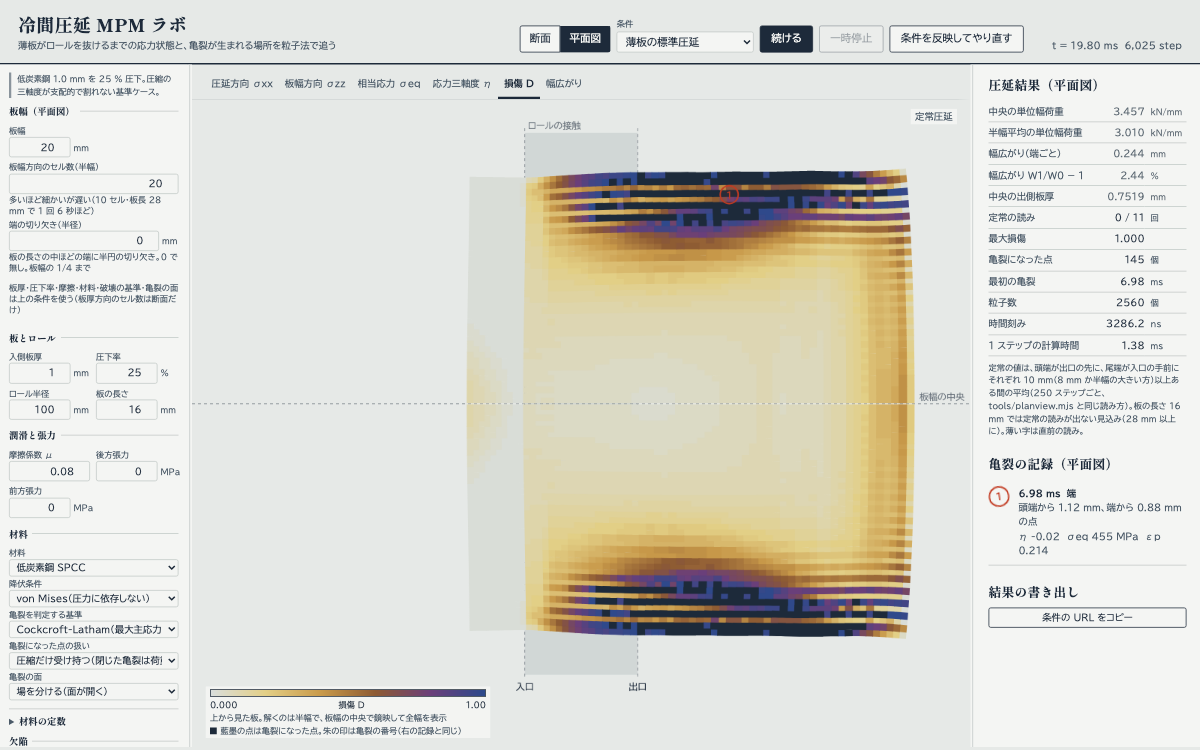
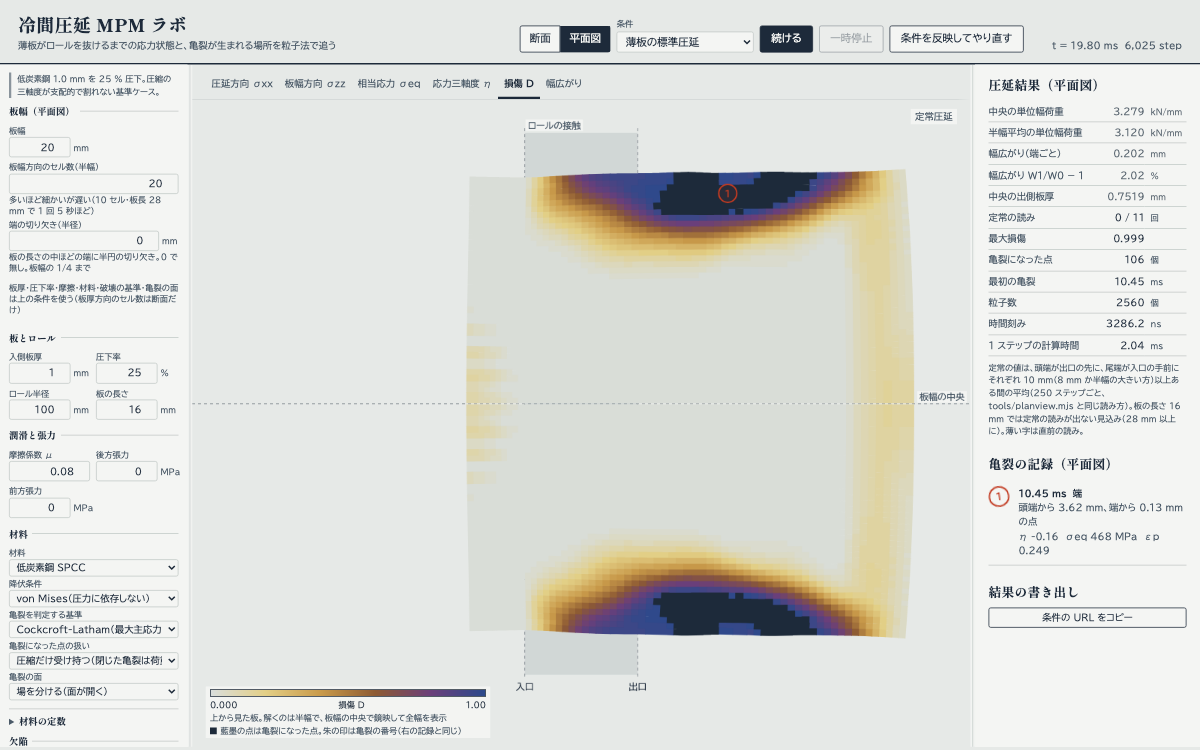
feat(planview): the volume averaging of the section model ('rate'), on by default
In the bite the thickness fixes the in-plane divergence, so point-by-point
volumes lock: the pressure of neighbouring points scattered (its p95 about half
the mean) and each point's triaxiality with it. The plan view now smooths the
in-plane volumetric rate over the grid as the section model does, under the same
`numerics.volumetric` switch (default 'rate'); `numerics.jbar = false` runs it
point by point as before, bit for bit.

- The in-plane rate θ = l00 + l11 and the elastic log volume f = ln J = −p/K
  (the thickness is in J) are scattered with β = c·3KΔεp/σeq; det F follows
  exp(Δt θ) and the deviatoric update sees θ as the in-plane trace. D_yy stays
  the point's (the roll gap, or plane stress).
- The mid-width fold adds the ghosts' sums onto their mirrors (scalars, no sign
  change) and gives the means back; 'dfg' scatters and reads on the field each
  point is on; failed points in tension and inverted points keep their own rate.
- Effect (docs/validation.md「体積の平均化（平面図）」): the neighbour pressure
  jump falls from 0.43 to 0.14 of the mean pressure, the triaxiality scatter by
  a third to a half, the section means move by at most 3 %, and a step costs
  16–18 % more.
- **Edge cracks come later and fewer**: the scatter's tail (a false tension at
  the edge) was starting them. The examples and the gate's limits are remeasured:
  the edge cracks up to C 0.07 (was 0.1) and only with a notch at C 0.1; the old
  values are kept in the docs.
[…]

diff --git a/src/mpm/planview/sim.ts b/src/mpm/planview/sim.ts
@@ -88,6 +88,13 @@ export class PlanSim {
   /** friction the node got this step over its capacity (a vector of length ≤ 1; 1 = sliding) */
   readonly gfx: Float64Array;
   readonly gfz: Float64Array;
+  // the volume averaging ('rate'): per node Σ w m θ, Σ w m f, Σ w m β and Σ w m of the points in the averages, then the means
+  readonly gTh: Float64Array;
+  readonly gFe: Float64Array;
+  readonly gB: Float64Array;
+  readonly gMv: Float64Array;
+  /** the in-plane volumetric rate is smoothed over the grid ('rate'); false: point by point, as before T63 */
+  readonly averaged: boolean;
   private readonly gpush: Uint8Array;
   /** length of the node arrays: the nodes, and with crackFields 'dfg' the second field's nodes after them */
   readonly NN: number;
@@ -153,6 +160,7 @@ export class PlanSim {
   readonly fricX: Float64Array; // friction the rolls put on the point this step (both faces) [N]
   readonly fricZ: Float64Array;
   readonly dyy: Float64Array; // thickness strain rate of the last step [1/s]
+  readonly vr: Float64Array; // 'rate': 3K Δεp / σeq of the last update (the relaxation fraction per unit coefficient)
   readonly rate: Float64Array; // equivalent strain rate of the last update, mill-speed scaled as the flow stress sees it [1/s]
   readonly ep: Float64Array;
   readonly seq: Float64Array;
@@ -225,6 +233,10 @@ export class PlanSim {
     this.gcap = new Float64Array(NN);
     this.gfx = new Float64Array(NN);
     this.gfz = new Float64Array(NN);
+    this.gTh = new Float64Array(NN);
+    this.gFe = new Float64Array(NN);
+    this.gB = new Float64Array(NN);
+    this.gMv = new Float64Array(NN);
     this.gpush = new Uint8Array(NN);
     const nG = NN > nNodes ? nNodes : 0;
     this.gGx = new Float64Array(nG);
@@ -293,6 +305,10 @@ export class PlanSim {
     this.fricZ = F();
     this.dyy = F();
     this.rate = F();
+    this.vr = F();
+    // the same switch as the section model: 'rate' unless J-bar is off (or 'total', the old whole-J J-bar, which the
+    // plan view does not have — it then runs point by point, as it did before the averaging)
+    this.averaged = (num.jbar ?? true) && (num.volumetric ?? 'rate') !== 'total';
     this.ep = F();
     this.seq = F();
     this.eta = F();
@@ -764,6 +780,7 @@ export class PlanSim {
   }
 
   private g2p(): void {
+    if (this.averaged) return this.g2pRate();
     const { n, active, px, pz, gvx, gvz, gfx, gfz, dt, h, invH, ox, oz, nzN, nxN, pf } = this;
     const nNodes = nxN * nzN;
     const k4 = 4 * invH * invH;
@@ -855,6 +872,210 @@ export class PlanSim {
   }
 
   /**
+   * G2P with the section model's 'rate' volume averaging (solver.ts g2pVelocity / g2pUpdate) in the x–z plane. Pass 1: velocity, L and the friction share, and each point in the averages adds m θ (θ = the in-plane
+   * divergence l00 + l11), m f (f = ln J = −p/K, J = det F h / h0: the thickness is in it) and m β (β = c · 3K Δεp /
+   * σeq, capped at 1) to the nodes of the field it is on. The ghost nodes fold onto their mirrors (scalars: no sign),
+   * the real nodes divide, the ghosts take the means back. Pass 2: θ = Σ w θ̄ + Σ w β̄ (f̄ − f_p)/Δt, det F advances by
+   * exp(Δt θ) (a factor on (I + ΔtL)), and the deviatoric update sees θ as the in-plane trace. D_yy stays the
+   * point's (the gap or plane stress). Not in the averages, with their own rate: failed points in tension, det F ≤ 0.
+   */
+  private g2pRate(): void {
+    const { n, active, px, pz, gvx, gvz, gfx, gfz, dt, h, invH, ox, oz, nzN, nxN, pf, gTh, gFe, gB, gMv, mass } = this;
+    const nNodes = nxN * nzN;
+    const NN = this.NN;
+    const k4 = 4 * invH * invH;
+    const xMax = (nxN - 3) * h + ox;
+    const zMax = (nzN - 3) * h + oz;
+    const xMin = ox + 2 * h;
+    const K = this.el.K;
+    const invK = 1 / K;
+    const cRel = this.params.numerics.volRelax ?? 1;
+    const end = pf !== null ? NN : nNodes;
+    gTh.fill(0, 0, end);
+    gFe.fill(0, 0, end);
+    gB.fill(0, 0, end);
+    gMv.fill(0, 0, end);
+    const inAvg = (p: number): boolean => {
+      const J = this.f00[p] * this.f11[p] - this.f01[p] * this.f10[p];
+      return J > 0 && !(this.failed[p] && !(this.pres[p] > 0));
+    };
+    // pass 1
+    for (let p = 0; p < n; p++) {
+      if (!active[p]) continue;
+      const gx = (px[p] - ox) * invH;
+      const gz = (pz[p] - oz) * invH;
+      const bx = Math.floor(gx - 0.5);
+      const bz = Math.floor(gz - 0.5);
+      const fx = gx - bx;
+      const fz = gz - bz;
+      const wx0 = 0.5 * (1.5 - fx) * (1.5 - fx);
+      const wx1 = 0.75 - (fx - 1) * (fx - 1);
+      const wx2 = 0.5 * (fx - 0.5) * (fx - 0.5);
+      const wz0 = 0.5 * (1.5 - fz) * (1.5 - fz);
+      const wz1 = 0.75 - (fz - 1) * (fz - 1);
+      const wz2 = 0.5 * (fz - 0.5) * (fz - 0.5);
+      let vx = 0;
+      let vz = 0;
+      let b00 = 0;
+      let b01 = 0;
+      let b10 = 0;
+      let b11 = 0;
+      let rx = 0;
+      let rz = 0;
+      const cap = this.fcap[p];
+      const fb = pf !== null && this.pfAny[p] ? 9 * p : -1;
+      for (let ii = 0; ii < 3; ii++) {
+        const wx = ii === 0 ? wx0 : ii === 1 ? wx1 : wx2;
+        const dx = (ii - fx) * h;
+        const col = (bx + ii) * nzN + bz;
+        for (let jj = 0; jj < 3; jj++) {
+          const w = wx * (jj === 0 ? wz0 : jj === 1 ? wz1 : wz2);
+          const dz = (jj - fz) * h;
+          const idx = fb >= 0 && pf![fb + 3 * ii + jj] ? col + jj + nNodes : col + jj;
+          const ux = gvx[idx];
+          const uz = gvz[idx];
+          vx += w * ux;
+          vz += w * uz;
+          b00 += w * ux * dx;
+          b01 += w * ux * dz;
+          b10 += w * uz * dx;
+          b11 += w * uz * dz;
+          if (cap > 0) {
+            rx += w * gfx[idx];
+            rz += w * gfz[idx];
+          }
+        }
+      }
+      this.fricX[p] = cap * rx;
+      this.fricZ[p] = cap * rz;
+      const l00 = k4 * b00;
+      const l11 = k4 * b11;
+      this.c00[p] = l00;
+      this.c01[p] = k4 * b01;
+      this.c10[p] = k4 * b10;
+      this.c11[p] = l11;
+      this.vx[p] = vx;
+      this.vz[p] = vz;
+      if (!inAvg(p)) continue;
+      const m = mass[p];
+      const mth = m * (l00 + l11);
+      const mfe = -m * this.pres[p] * invK;
+      const b = cRel * this.vr[p];
+      const mb = m * (b < 1 ? b : 1);
+      for (let ii = 0; ii < 3; ii++) {
+        const wx = ii === 0 ? wx0 : ii === 1 ? wx1 : wx2;
+        const col = (bx + ii) * nzN + bz;
+        for (let jj = 0; jj < 3; jj++) {
+          const w = wx * (jj === 0 ? wz0 : jj === 1 ? wz1 : wz2);
+          const idx = fb >= 0 && pf![fb + 3 * ii + jj] ? col + jj + nNodes : col + jj;
+          gTh[idx] += w * mth;
+          gFe[idx] += w * mfe;
+          gB[idx] += w * mb;
+          gMv[idx] += w * m;
+        }
+      }
+    }
+    // fold the ghosts onto their mirrors, divide on the real nodes, mirror back (per field)
+    const kSym = Math.round((0 - oz) / h);
+    const halves = pf !== null ? 2 : 1;
+    for (let half = 0; half < halves; half++) {
+      for (let i = 0; i < nxN; i++) {
+        const col = i * nzN + half * nNodes;
+        for (let k = 0; k < kSym; k++) {
+          const g = col + k;
+          const q = col + 2 * kSym - k;
+          gTh[q] += gTh[g];
+          gFe[q] += gFe[g];
+          gB[q] += gB[g];
+          gMv[q] += gMv[g];
+        }
+        for (let k = kSym; k < nzN; k++) {
+          const idx = col + k;
+          const m = gMv[idx];
+          if (!(m > 0)) continue;
+          gTh[idx] /= m;
+          const b = gB[idx] / m;
+          gB[idx] = b;
+          gFe[idx] = (b * gFe[idx]) / m;
+        }
+        for (let k = 0; k < kSym; k++) {
+          const g = col + k;
+          const q = col + 2 * kSym - k;
+          gTh[g] = gTh[q];
+          gFe[g] = gFe[q];
+          gB[g] = gB[q];
+          gMv[g] = gMv[q];
+        }
+      }
+    }
+    // pass 2
+    for (let p = 0; p < n; p++) {
+      if (!active[p]) continue;
+      const xp = px[p];
+      const zp = pz[p];
+      const l00 = this.c00[p];
+      const l01 = this.c01[p];
+      const l10 = this.c10[p];
+      const l11 = this.c11[p];
+      let th = l00 + l11;
+      let cor = 1;
+      if (inAvg(p)) {
+        const gx = (xp - ox) * invH;
+        const gz = (zp - oz) * invH;
+        const bx = Math.floor(gx - 0.5);
+        const bz = Math.floor(gz - 0.5);
+        const fx = gx - bx;
+        const fz = gz - bz;
+        const wxs = [0.5 * (1.5 - fx) * (1.5 - fx), 0.75 - (fx - 1) * (fx - 1), 0.5 * (fx - 0.5) * (fx - 0.5)];
+        const wzs = [0.5 * (1.5 - fz) * (1.5 - fz), 0.75 - (fz - 1) * (fz - 1), 0.5 * (fz - 0.5) * (fz - 0.5)];
+        const fb = pf !== null && this.pfAny[p] ? 9 * p : -1;
+        let tbar = 0;
+        let rA = 0;
+        let rB = 0;
+        for (let ii = 0; ii < 3; ii++) {
+          const col = (bx + ii) * nzN + bz;
+          for (let jj = 0; jj < 3; jj++) {
+            const w = wxs[ii] * wzs[jj];
+            const idx = fb >= 0 && pf![fb + 3 * ii + jj] ? col + jj + nNodes : col + jj;
+            tbar += w * gTh[idx];
+            rA += w * gFe[idx];
+            rB += w * gB[idx];
+          }
+        }
+        th = tbar + (rA + (rB * this.pres[p]) * invK) / dt;
+        const Jold = this.f00[p] * this.f11[p] - this.f01[p] * this.f10[p];
+        const Jtr = ((1 + dt * l00) * (1 + dt * l11) - dt * dt * l01 * l10) * Jold;
+        const r = (Jold * Math.exp(dt * th)) / Jtr;
+        cor = r > 0 ? Math.sqrt(r) : 1;
+      }
+      const nx = xp + dt * this.vx[p];
+      let nz = zp + dt * this.vz[p];
+      if (nz < 0) nz = 0;
+      px[p] = nx;
+      pz[p] = nz;
+      if (nx < xMin || nx > xMax || nz > zMax) {
+        active[p] = 0;
+        continue;
+      }
+      const F00 = this.f00[p];
+      const F01 = this.f01[p];
+      const F10 = this.f10[p];
+      const F11 = this.f11[p];
+      const g00 = cor * (1 + dt * l00);
+      const g01 = cor * dt * l01;
+      const g10 = cor * dt * l10;
+      const g11 = cor * (1 + dt * l11);
+      this.f00[p] = g00 * F00 + g01 * F10;
+      this.f01[p] = g00 * F01 + g01 * F11;
+      this.f10[p] = g10 * F00 + g11 * F10;
+      this.f11[p] = g10 * F01 + g11 * F11;
+      // the deviatoric update sees θ as the in-plane trace
+      const shift = 0.5 * (th - l00 - l11);
+      this.constitutive(p, l00 + shift, l01, l10, l11 + shift, nx);
+    }
+  }
+
+  /**
    * One constitutive step of point p: the thickness (contact with the rolls or plane stress),
    * the 3D deviatoric stress with the J2 return, the pressure, the damage indicators.
    */
@@ -889,6 +1110,7 @@ export class PlanSim {
       const pr = this.pressureOf(J);
       this.pres[p] = P.damage.failure === 'erode' || pr < 0 ? 0 : pr;
       this.pc[p] = 0;
+      this.vr[p] = 0;
       return;
     }
 
@@ -958,6 +1180,7 @@ export class PlanSim {
     const q = out.q;
     const dep = out.dep;
     this.ep[p] += dep;
+    this.vr[p] = dep > 0 && q > 0 ? (3 * this.el.K * dep) / q : 0;
 
     // stress state of σ = s − p I
     const cxx = out.sx - out.pr;

diff --git a/docs/model.md b/docs/model.md
@@ -322,7 +322,8 @@ GTN の降伏条件では評価しない（`loc` = 1、`drucker` = 0）。
   **未検証**（比べる文献・解析解を見つけていない）
 - 幅広がりは端ごとに W/h0 5・10 で 0.27 mm、20 で 0.17 mm、60 で 0.05 mm（半幅で）と、広い板ほど小さい（以前の「幅によらず約 0.2 mm」は、
   短い板で頭端の過渡を平均した値だった）。Wusatowski の式は補正係数なしの基本形で W/h0 が小さい範囲の経験式なので、W/h0 ≥ 20 との比較には使わない
-- 延性が低いと端（引張の帯）から割れ、十分なら割れない。端の切り欠きがあるとその根元から割れる。
+- 延性が低いと端（引張の帯）から割れ、十分なら割れない。端の切り欠きがあるとその根元から割れる（体積の平均化の後の限界値は
+  `docs/validation.md`「平面図モデル」の表）。
   **ただし割れは端に沿った帯になり、圧延方向に直角の形にはならない**: 端は長さ方向に同じ履歴をたどるので損傷が一様に溜まり、
   ほぼ同時に壊れる。割れの形を決めているのは「どこで損傷が 1 に達するか」で、亀裂の先端に応力が集まって先へ進むことではない
 - **場を分けても（'dfg'）、端が一様なら耳割れは帯のまま**（T50 段 1、`docs/validation.md`「亀裂の面」の平面図の表）: 面の隣は荷重を降ろし、
@@ -330,8 +331,14 @@ GTN の降伏条件では評価しない（`loc` = 1、`drucker` = 0）。
   端に弱い点や延性のばらつきを入れると割れは短く分かれ、場を分けると破壊した点が約半分になって深さの向きに寄るが、直角には走らない。
   直角の耳割れには、割れ始めの場所の長さ方向のばらつき（端の延性のばらつき・介在物）と、先端の応力集中を解くこと（細かい格子、
   先端での損傷の扱い）が要る
-- **圧力のむら**: バイト内では面内の発散が −D_yy に拘束されるので体積ロッキングが出る（隣の粒子との圧力差 p95 が平均の約半分）。
-  区間平均の荷重・応力は滑らかだが、粒子ごとの三軸度はむらが大きい。断面の体積の平均化（'rate'、T21）は平面図にはまだ入れていない（入れるなら `volumeRatio` で、測り直す）
+- **体積の平均化**（`numerics.volumetric`、断面と同じ既定 'rate'。T63）: バイトの中では面内の発散が板厚の拘束 −D_yy に縛られるので体積ロッキングが出る。
+  断面と同じように、面内の体積速度 θ = tr L（面内の 2 成分）を格子で平均し、格子で解けない弾性の体積 f = ln J = −p/K を節点の平均へ
+  β = c·3K Δεp/σeq で緩和する（`volRelax`。ロールの近くの係数は平面図には無い）。板厚の速さ D_yy は点のまま（接触なら隙間、外なら平面応力）で、
+  det F を exp(Δt θ) に合わせ、偏差の更新でも面内の trace を θ に置き換える。対称面では θ・f・β・質量を鏡の節点へ畳み（向きの無い量なので符号はそのまま）、
+  割ってから幽霊節点へ戻す。亀裂の面（'dfg'）では場ごとに散布して読む。引張の破壊した点と J ≤ 0 の点は平均に入れず自分の率（T46 と同じ）。
+  `numerics.jbar = false` で前の点ごとの計算に戻る（ビット一致）。効き目と費用は `docs/validation.md`「体積の平均化（平面図）」:
+  隣との圧力差の p95 が平均の 0.43 → 0.14、粒子ごとの三軸度のむらが 3〜4 割減、区間平均の荷重は数 % 以内、1 ステップ +16〜18 %。
+  **耳割れは割れにくくなった**（むらの裾で先に壊れていた点が壊れない）ので、割れる限界値の例を測り直した
 
 ## タンデム（`src/mpm/tandem.ts`）
 

diff --git a/README.md b/README.md
@@ -298,19 +298,23 @@ Lode パラメータ、塑性ひずみ εp、3 つの損傷（JC・HM・CL。判
   板の長さを「その間隔の 2 倍と 8 mm」以上にする（既定の板幅 20 mm で 28 mm、60 mm で 68 mm。16 mm では出ない）。数値は `node tools/planview.mjs` と同じ読み方で、同じ条件なら相対 2e-6 以内で合う（ブラウザと node で
   Math.exp・log の最後の 1 ビットが違うため、ビット単位では一致しない）
 - 結果の表: 中央の単位幅荷重・半幅平均の単位幅荷重・幅広がり（端ごと）・中央の出側板厚・最初の亀裂の時刻など
+- 体積の扱いは断面と同じ（既定は格子で平均する 'rate'）。バイトの中は板厚の拘束で体積ロッキングが出るので、平均しないと粒子ごとの圧力と
+  三軸度がばらつき、その裾で耳割れが早く・広く出ていた（[docs/validation.md](docs/validation.md)「体積の平均化（平面図）」）
 
 ![平面図: 延性の低い板（Cockcroft-Latham 0.1）の端に沿って損傷が溜まり、端から割れる](docs/img/plan-edge-crack.png)
 
 条件 `?view=plan&W=20&wcells=20&L=16&damage=cockcroft-latham&cond=eyJkYW1hZ2UiOnsiY2xDcml0IjowLjF9fQ&pfield=damage&autorun=1`
 （板幅 20 mm・半幅 20 セル・板長 16 mm、Cockcroft-Latham の限界値 0.1。`cond` は「破壊の基準」の欄の値）、6000 ステップで止めた。
-上下が板の端（下半分は板幅の中央で鏡映）。端はバイトの中で中央に引っ張られて引張になり、端に沿った帯で損傷が溜まって割れる。
+上下が板の端（下半分は板幅の中央で鏡映）。端はバイトの中で中央に引っ張られて引張になり、端に沿った帯で損傷が溜まって割れる
+（この時点で亀裂になった点 112、最初の亀裂は 10.45 ms・頭端から 3.62 mm・端から 0.13 mm = 最外の列）。
 割れは端に沿って伸び、圧延方向に直角の耳割れにはならない（[docs/model.md](docs/model.md)「平面図モデル」）
 
 ![平面図・亀裂の面を分ける: 端に沿った帯のまま（亀裂になった点は少ない）](docs/img/plan-edge-crack-dfg.png)
 
-同じ条件に `&crack=dfg`。場を分けても、端が一様なら耳割れは端に沿った帯のまま。亀裂になった点は減る（この 6000 ステップで 209 → 145、
-パスの終わりで 237 → 166）。端はバイトの中で長さ方向にほぼ一様に引張なので一斉に壊れ、帯の内側は圧縮なので、先端が板幅の中へ進まない
-（[docs/validation.md](docs/validation.md)「亀裂の面」の「平面図」）
+同じ条件に `&crack=dfg`。場を分けても、端が一様なら耳割れは端に沿った帯のまま。亀裂になった点は少し減る（112 → 106）。
+端はバイトの中で長さ方向にほぼ一様に引張なので一斉に壊れ、帯の内側は圧縮なので、先端が板幅の中へ進まない
+（[docs/validation.md](docs/validation.md)「亀裂の面」の「平面図」）。
+体積の平均化（上）が入る前は、粒子ごとの圧力のむらで割れやすく、同じ条件で 209 → 145 点だった
 - URL: `?view=plan&W=20&wcells=10&notch=0.5&pfield=sxx`（板幅 mm、半幅のセル数、切り欠きの半径 mm、色の量）。
   ほかの条件のキーは断面と同じ。「条件の URL をコピー」は平面図のキーも書く。粒子が 50 万点を超える組み合わせ（細い板幅に
   多いセル数、長い板）は板幅とセル数を既定に戻し、板幅の 1/4 より深い切り欠きは無視する
